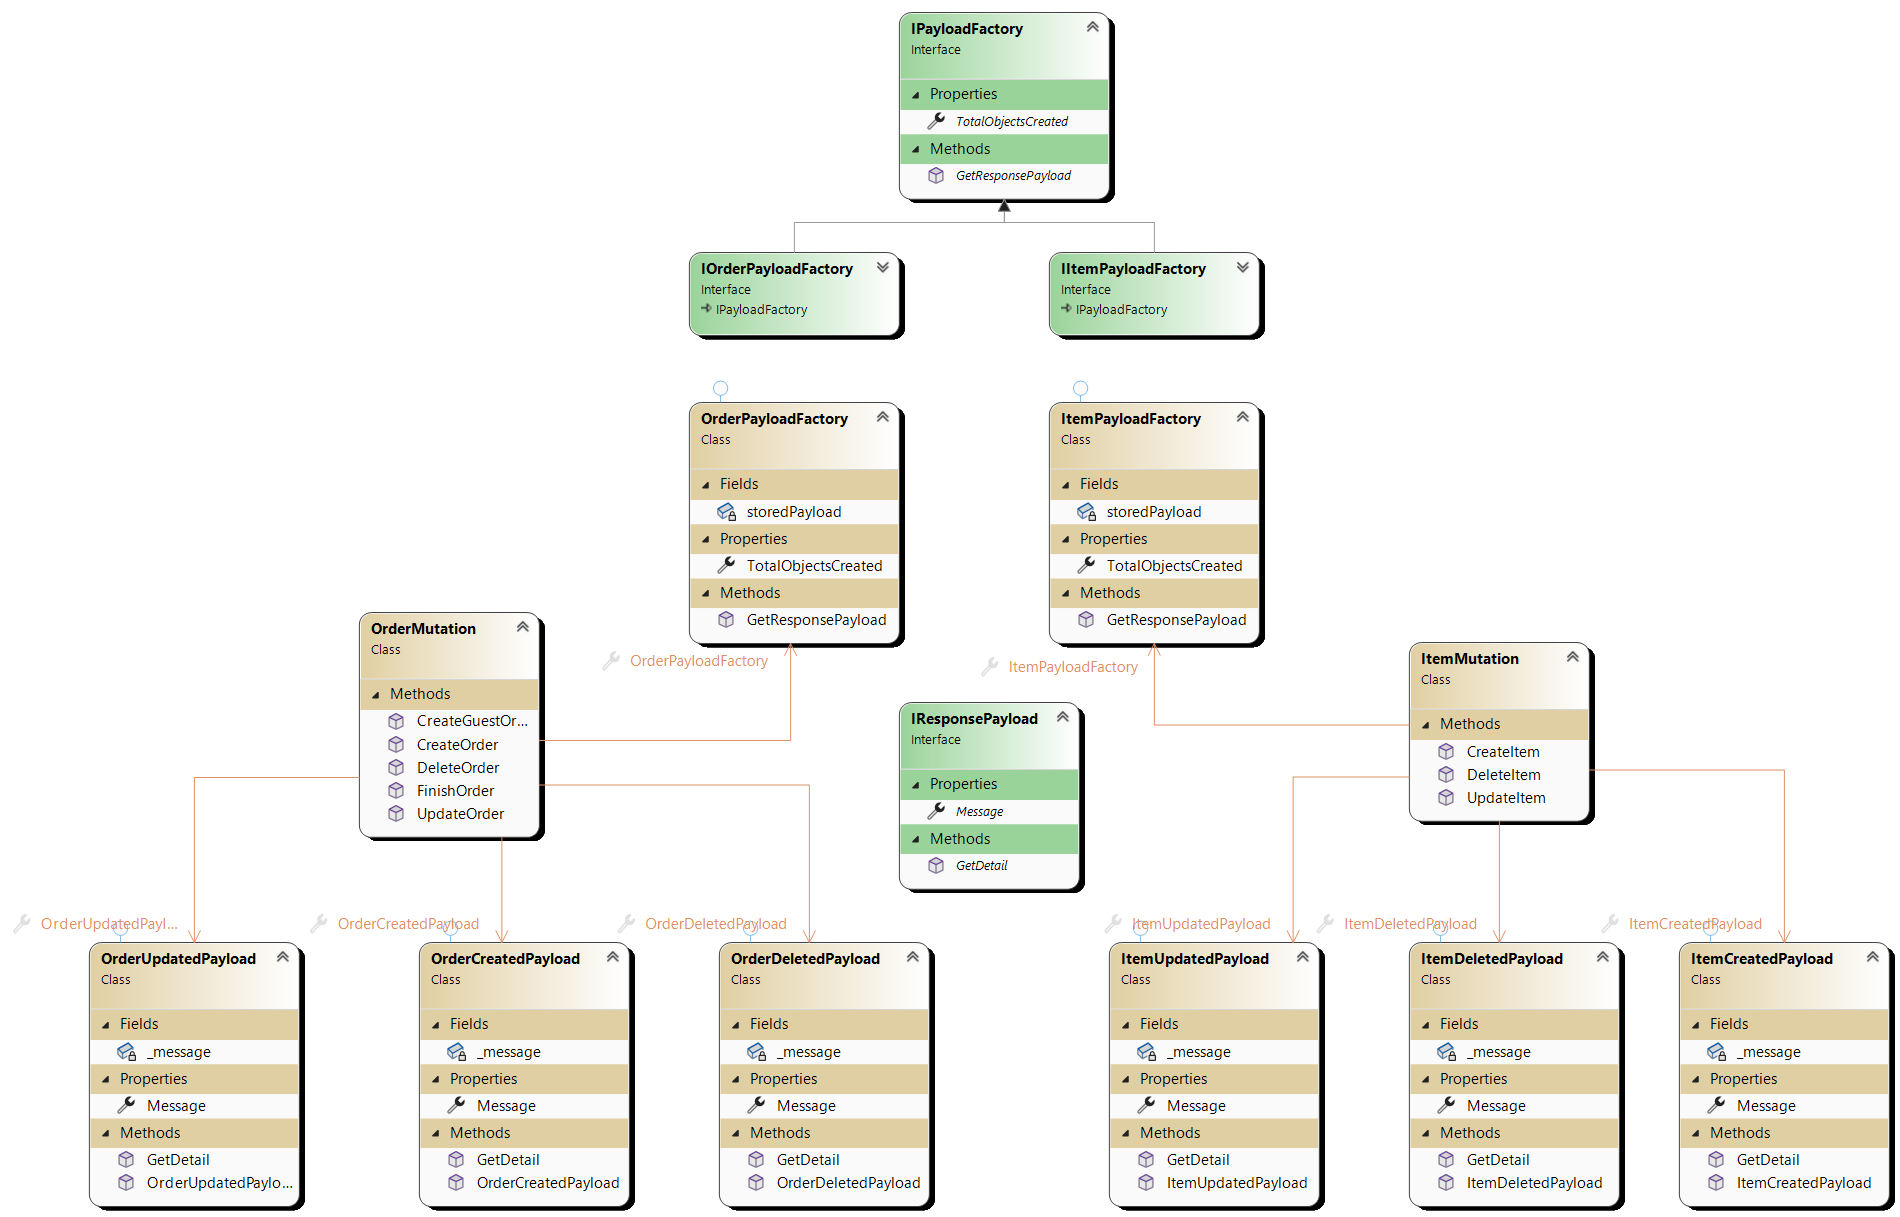
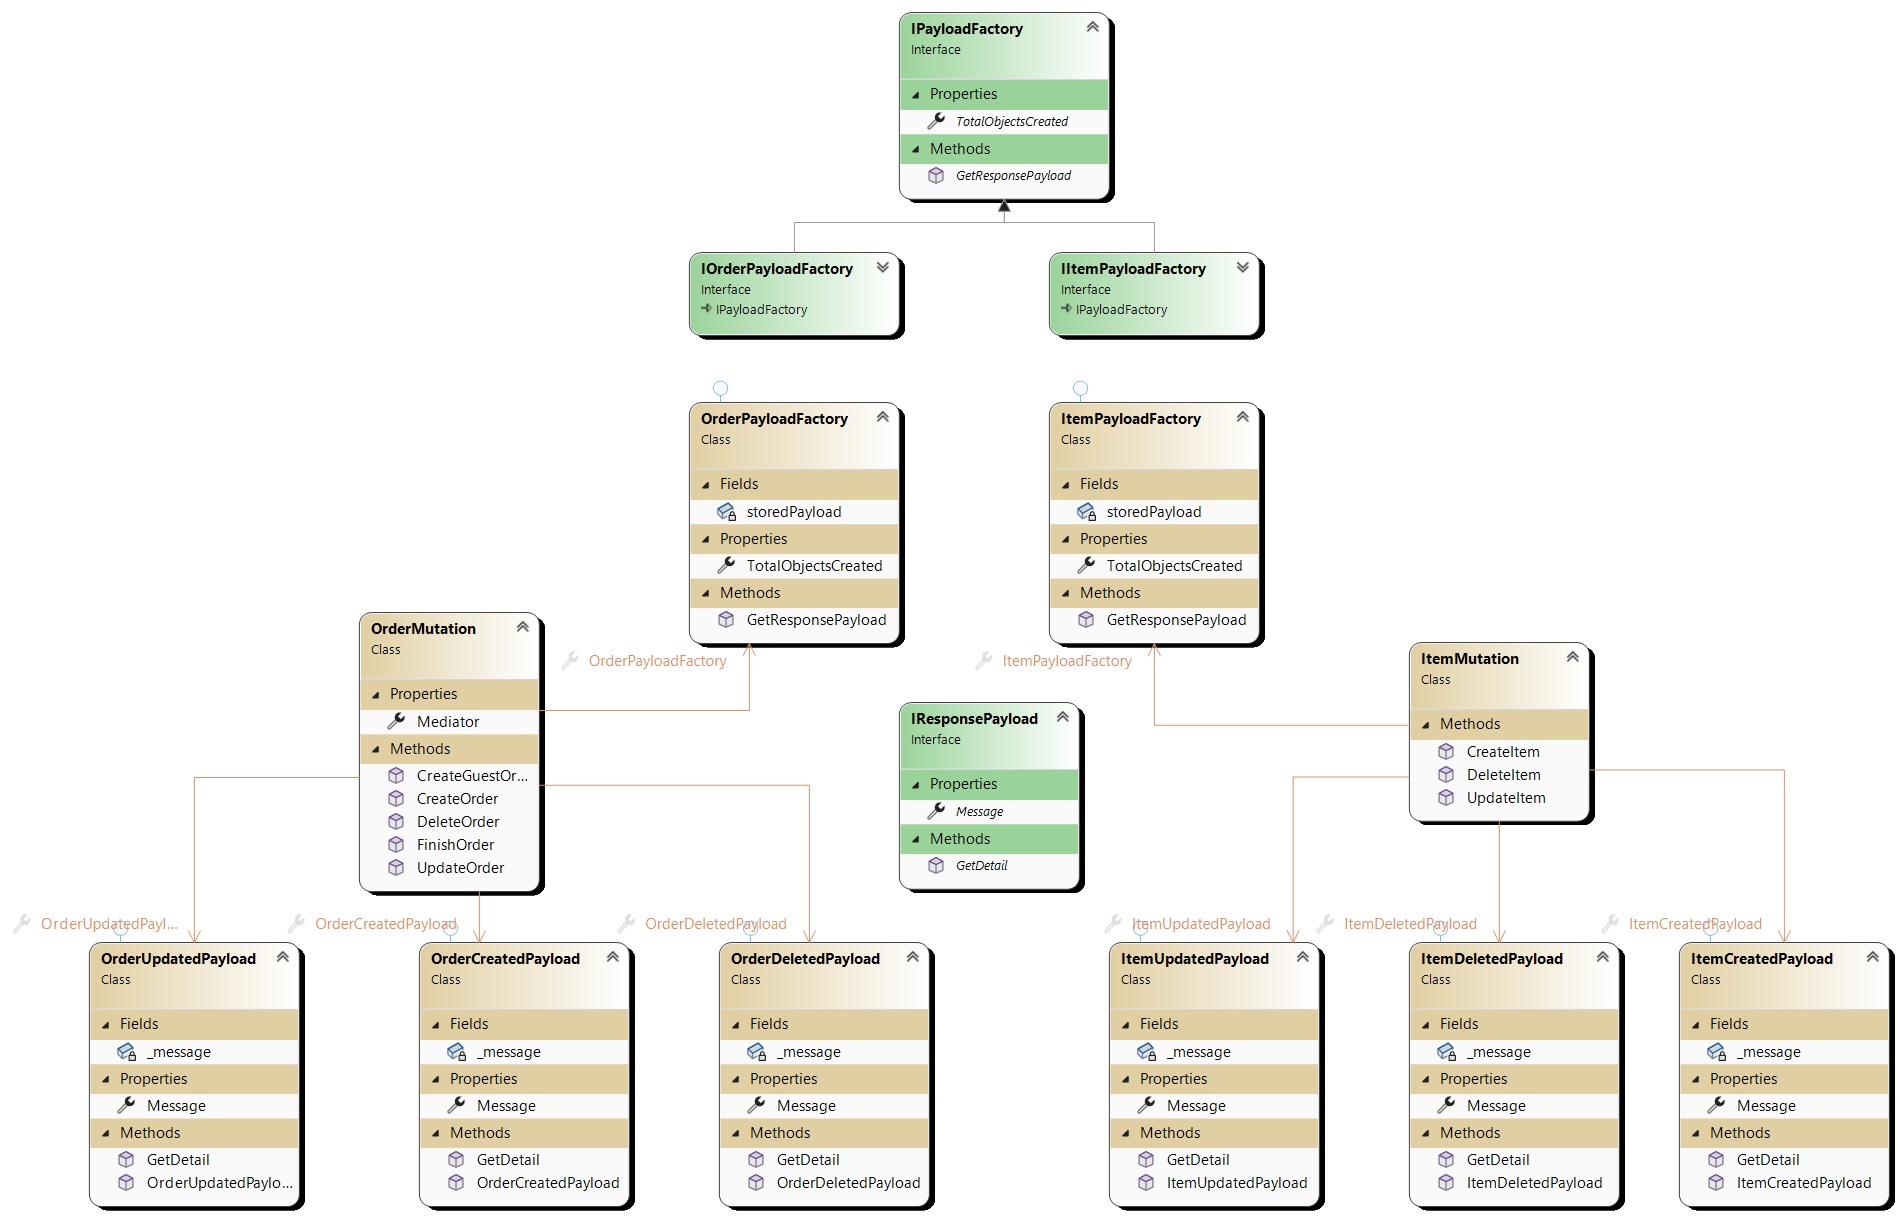
code refactor

Changed region(s): [[0.1553, 0.562, 0.3105, 0.7806], [0.3105, 0.5308, 0.4037, 0.562], [0.5279, 0.5308, 0.59, 0.562]]

diff --git a/Services/Order/IW/Controllers/Mutations/OrderMutation.cs b/Services/Order/IW/Controllers/Mutations/OrderMutation.cs
@@ -13,48 +13,9 @@ namespace IW.MessageBroker.Mutations
     [Authorize]
     public class OrderMutation
     {
-        public Models.DTOs.OrderPayloads.OrderPayloadFactory OrderPayloadFactory
-        {
-            get => default;
-            set
-            {
-            }
-        }
-
-        public Models.DTOs.OrderPayloads.OrderUpdatedPayload OrderUpdatedPayload
-        {
-            get => default;
-            set
-            {
-            }
-        }
-
-        public Models.DTOs.OrderPayloads.OrderDeletedPayload OrderDeletedPayload
-        {
-            get => default;
-            set
-            {
-            }
-        }
-
-        public Models.DTOs.OrderPayloads.OrderCreatedPayload OrderCreatedPayload
-        {
-            get => default;
-            set
-            {
-            }
-        }
-
-        public Mediator Mediator
-        {
-            get => default;
-            set
-            {
-            }
-        }
-
         [Error(typeof(CreateOrderErrorFactory))]
-        public async Task<string> CreateOrder(CreateOrder input,
+        public async Task<string> CreateOrder(
+            CreateOrder input,
             [Service] IMediator mediator, 
             [Service]IOrderPayloadFactory payloadFactory)
         {
@@ -66,7 +27,8 @@ namespace IW.MessageBroker.Mutations
 
         [Error(typeof(CreateOrderErrorFactory))]
         [AllowAnonymous]
-        public async Task<string> CreateGuestOrder(CreateGuestOrder input,
+        public async Task<string> CreateGuestOrder(
+            CreateGuestOrder input,
             [Service] IOrderPayloadFactory payloadFactory,
             [Service] IMediator mediator)
         {
@@ -90,7 +52,8 @@ namespace IW.MessageBroker.Mutations
         }
 
         [AllowAnonymous]
-        public async Task<string> FinishOrder(FinishOrder input,
+        public async Task<string> FinishOrder(
+            FinishOrder input,
             [Service] IMediator mediator,
             [Service] IOrderPayloadFactory payloadFactory)
         {
@@ -100,7 +63,8 @@ namespace IW.MessageBroker.Mutations
             return payload.GetDetail($"orderId:{orderId}");
         }
 
-        public async Task<string> DeleteOrder(DeleteOrder input,
+        public async Task<string> DeleteOrder(
+            DeleteOrder input,
             [Service] IMediator mediator,
             [Service] IOrderPayloadFactory payloadFactory)
         {

diff --git a/Services/Order/IW/Models/DTOs/OrderPayloads/OrderPayloadFactory.cs b/Services/Order/IW/Models/DTOs/OrderPayloads/OrderPayloadFactory.cs
@@ -23,21 +23,24 @@ namespace IW.Models.DTOs.OrderPayloads
             {
                 case PAYLOAD_TYPE.Update:
                     {
-                        var payload = new OrderUpdatedPayload("Order successfully updated"); ;
+                        var payload = 
+                            new OrderUpdatedPayload("Order successfully updated");
                         storedPayload.Add(type, payload);
                         return payload;
                     }
 
                 case PAYLOAD_TYPE.Create:
                     {
-                        var payload = new OrderCreatedPayload("Order successfully created"); ;
+                        var payload = 
+                            new OrderCreatedPayload("Order successfully created");
                         storedPayload.Add(type, payload);
                         return payload;
                     }
 
                 case PAYLOAD_TYPE.Delete:
                     {
-                        var payload = new OrderDeletedPayload("Order successfully deleted"); ;
+                        var payload = 
+                            new OrderDeletedPayload("Order successfully deleted");
                         storedPayload.Add(type, payload);
                         return payload;
                     }

diff --git a/Services/Order/IW/Controllers/Mutations/ItemMutation.cs b/Services/Order/IW/Controllers/Mutations/ItemMutation.cs
@@ -15,37 +15,6 @@ namespace IW.MessageBroker.Mutations
     [Authorize]
     public class ItemMutation
     {
-        public ItemPayloadFactory ItemPayloadFactory
-        {
-            get => default;
-            set
-            {
-            }
-        }
-
-        public ItemUpdatedPayload ItemUpdatedPayload
-        {
-            get => default;
-            set
-            {
-            }
-        }
-
-        public ItemDeletedPayload ItemDeletedPayload
-        {
-            get => default;
-            set
-            {
-            }
-        }
-
-        public ItemCreatedPayload ItemCreatedPayload
-        {
-            get => default;
-            set
-            {
-            }
-        }
 
         [Error(typeof(CreateItemErrorFactory))]
         public async Task<string> CreateItem(

diff --git a/Services/Order/IW/Commands/Items/CreateItemsCommand.cs b/Services/Order/IW/Commands/Items/CreateItemsCommand.cs
@@ -12,13 +12,5 @@ namespace IW.Commands.Items
         public CreateItemsCommand(
             CreateItemsHandler handler,
             CreateItems request) : base(handler, request) { }
-
-        public CreateItemsHandler CreateItemsHandler
-        {
-            get => default;
-            set
-            {
-            }
-        }
     }
 }

diff --git a/Services/Order/IW/Common/AbstractCommandHandler.cs b/Services/Order/IW/Common/AbstractCommandHandler.cs
@@ -22,14 +22,6 @@ namespace IW.Common
             _mediator = mediator;
         }
 
-        public IMediator IMediator
-        {
-            get => default;
-            set
-            {
-            }
-        }
-
         public abstract Task<int> Handle <TRequest>(TRequest request);
 
         public abstract Task Undo();
